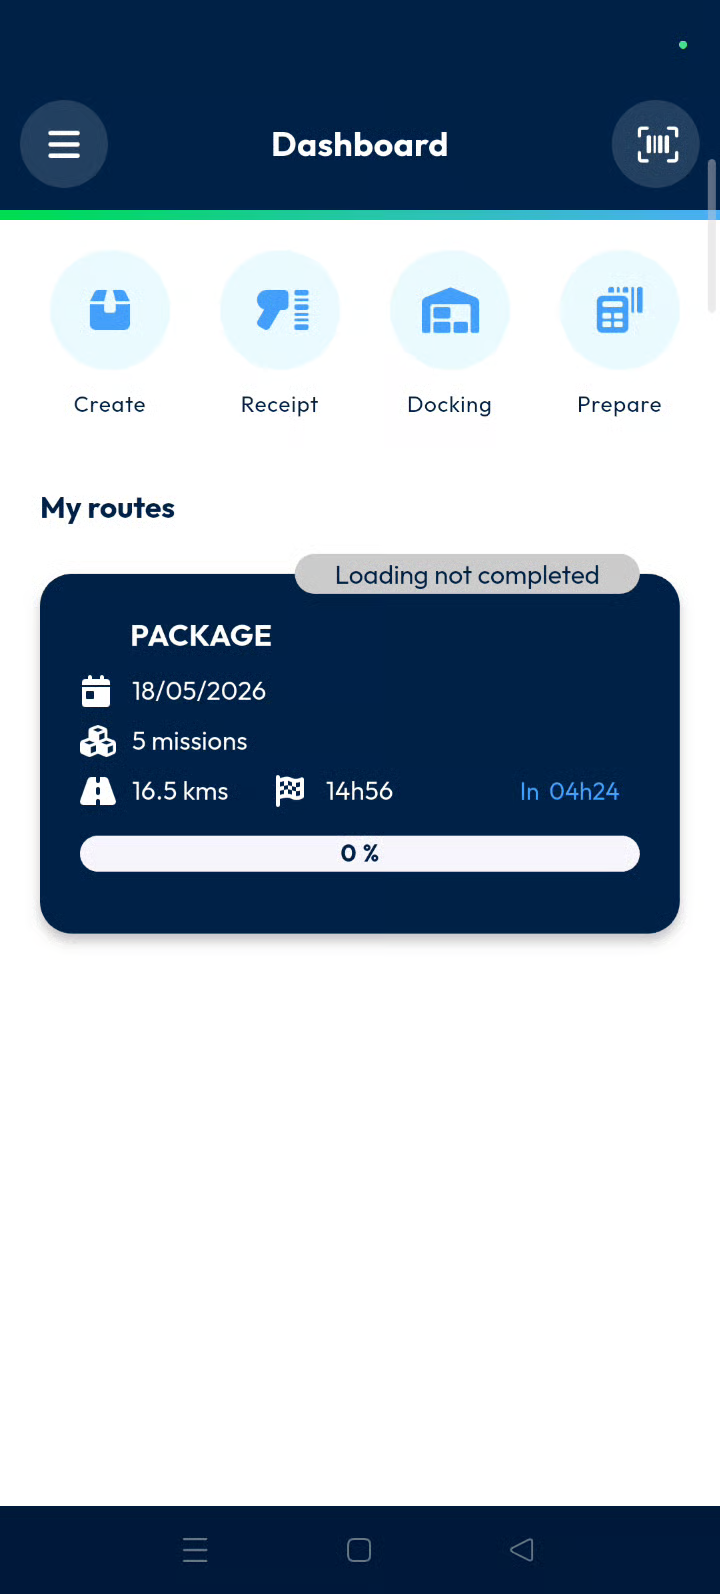
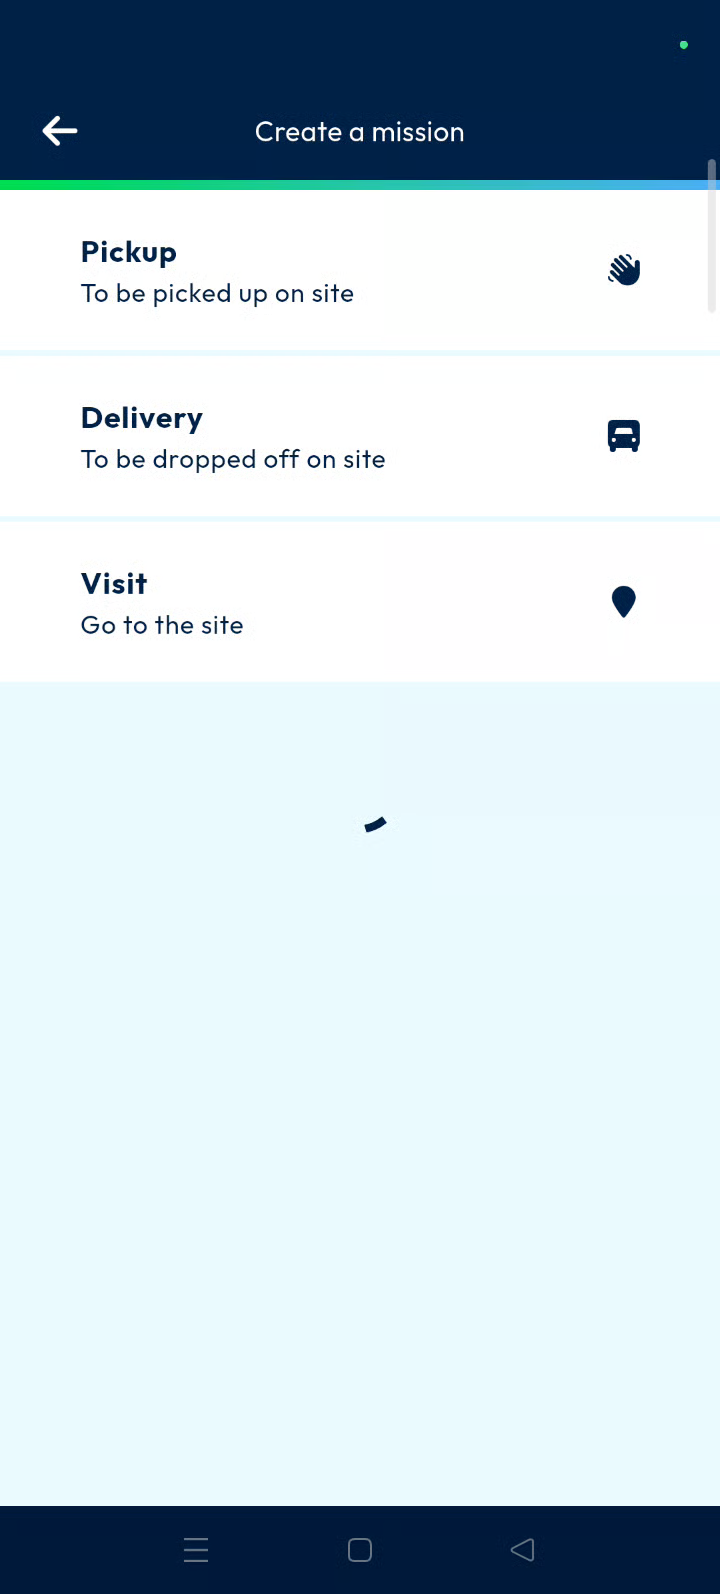
GITBOOK-22: No subject

diff --git a/createamission.md b/createamission.md
@@ -1,0 +1,72 @@
+# Create a Mission
+
+Create pickup or delivery missions directly on mobile devices without using the back office. This feature allows drivers and operators to manage new assignments on the go. Mobile missions synchronize instantly with the back office for immediate processing.
+
+#### Getting Started
+
+* Active Nomadia Delivery mobile application.
+* Mobile device with a working camera for barcode scanning.
+* Proper permissions to access the mobile dashboard.
+* Open the **Nomadia Delivery** mobile app on your device.
+* Navigate to the mobile dashboard screen.
+
+#### Feature Overview
+
+* **Quick Access:** A dedicated section that provides shortcuts to frequently used tasks and features.
+
+<img src=".gitbook/assets/mobile-createamission_timestamp_0_to_29.png" alt="" width="540">
+
+#### How To: Create a Mission
+
+1. Navigate to the **Quick Access** section on the mobile dashboard.
+2. Tap the **Create** button.
+
+<figure><img src=".gitbook/assets/image.png" alt="" width="540"><figcaption></figcaption></figure>
+
+3. The Create Mission screen displays a list of available mission types. Select **Pickup Mission** to create a mission for collecting parcels from a specified location, or select **Delivery Mission** to create a mission for delivering parcels to a customer destination. Once the appropriate mission type is selected, the application opens the corresponding mission creation form where the required details can be entered.
+
+<figure><img src=".gitbook/assets/image (1).png" alt="" width="540"><figcaption></figcaption></figure>
+
+4. When the instruction popup appears, review the information provided on the screen. After confirming that you understand the instructions, tap _I Understand_ to acknowledge the message and continue with the operation.
+
+<figure><img src=".gitbook/assets/image (2).png" alt="" width="540"><figcaption></figcaption></figure>
+
+5. Tap the **QR code scanner** at the bottom scan a barcode or enter it manually.
+6. Set the mission location by selecting **Search for an address around me** or **My current location**.
+7. Tap New address to enter the address
+
+<figure><img src=".gitbook/assets/image (4).png" alt="" width="540"><figcaption></figcaption></figure>
+
+6. Enter the Designation, Valid address
+7. Tap the Save button
+
+<figure><img src=".gitbook/assets/Media (23).jpg" alt="" width="563"><figcaption></figcaption></figure>
+
+6. Choose the **Type of container** and **Type of product**.
+7. Enter the package **Weight**, **Length**, **Width**, **Height**, and **Volume**.
+
+<img src=".gitbook/assets/mobile-createamission_timestamp_2_to_40_to_3_to_40.gif" alt="" width="540">
+
+9. Tap the **Save** button.
+10. Tap the **Tick mark** to finish the information entry.
+11. Tap **Confirm** on the final confirmation popup.
+
+<figure><img src=".gitbook/assets/image (5).png" alt="" width="540"><figcaption></figcaption></figure>
+
+#### Verify Mission Creation
+
+Once the mission is successfully created:
+
+* The mission becomes available in the system.
+* The mission is synchronized with the back office.
+* The newly created mission can be processed like any other operational mission.
+
+<figure><img src=".gitbook/assets/msedge_8qT2r9P8BD.png" alt=""><figcaption></figcaption></figure>
+
+This completes the Create Mission process.
+
+#### Productivity Tips
+
+* 💡 **Manual Entry**: You can manually type a barcode if the camera cannot read a label.
+* 💡 **Address Shortcuts**: Select a **Previous address** to quickly set locations for returning customers.
+* 💡 **Instant Synchronization**: Created missions are immediately available to the back office for management.

diff --git a/main-actions/mobile_dashboard..md b/main-actions/mobile_dashboard..md
@@ -10,7 +10,7 @@ The Mobile Dashboard provides real-time visibility into route information, inclu
 * Log in to the Nomadia Delivery mobile application.
 * View the **Dashboard** screen to see your current tasks.
 
-<figure><img src="../.gitbook/assets/image (1).png" alt="" width="540"><figcaption></figcaption></figure>
+<figure><img src="../.gitbook/assets/image (1) (1).png" alt="" width="540"><figcaption></figcaption></figure>
 
 #### Feature Overview
 
@@ -19,36 +19,36 @@ The Mobile Dashboard provides real-time visibility into route information, inclu
 * **Docking**: Organize activities related to docking during operational workflows.
 * **Prepare**: Set up parcels and machines before beginning delivery tasks.
 
-<figure><img src="../.gitbook/assets/image (2).png" alt="" width="540"><figcaption></figcaption></figure>
+<figure><img src="../.gitbook/assets/image (2) (1).png" alt="" width="540"><figcaption></figcaption></figure>
 
 * **Unload**: Handle unloading activities after completing a route.
 * **Unplanned Deliveries**: Manage delivery tasks not included in the original route.
 * **Unscheduled Collections**: Process collection activities that were not previously scheduled.
 * **Supervision**: Access operational visibility and monitoring tools for delivery activities.
 
-<img src="../.gitbook/assets/mobile-mobile_dashboard_timestamp_2_to_03 (1).png" alt="" width="540">
+<img src="../.gitbook/assets/mobile-mobile_dashboard_timestamp_2_to_03.png" alt="" width="540">
 
 * **My Route**: View all routes currently assigned to your account.
 
-<img src="../.gitbook/assets/mobile-mobile_dashboard_timestamp_2_to_14 (1).png" alt="" width="540">
+<img src="../.gitbook/assets/mobile-mobile_dashboard_timestamp_2_to_14.png" alt="" width="540">
 
 * **Information Scan**: Scan parcels to retrieve details and verify operational information.
 
-<img src="../.gitbook/assets/mobile-mobile_dashboard_timestamp_3_to_39 (1).png" alt="" width="540">
+<img src="../.gitbook/assets/mobile-mobile_dashboard_timestamp_3_to_39.png" alt="" width="540">
 
 * **My Latest Action**: Review the most recent operational tasks and scanned machines.
 
-<figure><img src="../.gitbook/assets/Media (16) (1).jpg" alt="" width="563"><figcaption></figcaption></figure>
+<figure><img src="../.gitbook/assets/Media (16).jpg" alt="" width="563"><figcaption></figcaption></figure>
 
 * **Main Menu**: Open the side menu to access all application modules.
 
-<img src="../.gitbook/assets/mobile-mobile_dashboard_timestamp_4_to_30 (1).png" alt="" width="540">
+<img src="../.gitbook/assets/mobile-mobile_dashboard_timestamp_4_to_30.png" alt="" width="540">
 
 #### How To: Track and Manage Routes
 
 1. Open the **My Route** section from the dashboard.
 
-<img src="../.gitbook/assets/mobile-mobile_dashboard_timestamp_2_to_05_to_2_to_21 (1).gif" alt="" width="540">
+<img src="../.gitbook/assets/mobile-mobile_dashboard_timestamp_2_to_05_to_2_to_21.gif" alt="" width="540">
 
 2. Locate the specific **Route Card** for your current assignment.
 3. Check the **Loading status** to verify if parcels are ready.
@@ -61,12 +61,12 @@ The Mobile Dashboard provides real-time visibility into route information, inclu
 
 1. Tap the **Information scan** icon at the top right corner.
 
-<img src="../.gitbook/assets/mobile-mobile_dashboard_timestamp_3_to_26_to_3_to_39 (1).gif" alt="" width="540">
+<img src="../.gitbook/assets/mobile-mobile_dashboard_timestamp_3_to_26_to_3_to_39.gif" alt="" width="540">
 
 2. Point the camera at the parcel barcode to scan it.
 3. Verify the **Parcel details** that appear on the screen.
 
-<figure><img src="../.gitbook/assets/shared image (2) (1).jpg" alt="" width="563"><figcaption></figcaption></figure>
+<figure><img src="../.gitbook/assets/shared image (2).jpg" alt="" width="563"><figcaption></figcaption></figure>
 
 #### How To: Review Recent Activity
 
@@ -74,7 +74,7 @@ The Mobile Dashboard provides real-time visibility into route information, inclu
 2. Identify the **Scanned machines** and mission information.
 3. Note the **Scanned date and time** for each action.
 
-<figure><img src="../.gitbook/assets/Media (16) (2).jpg" alt="" width="563"><figcaption></figcaption></figure>
+<figure><img src="../.gitbook/assets/Media (16).jpg" alt="" width="563"><figcaption></figcaption></figure>
 
 #### Productivity Tips
 

diff --git a/app-launch/login.md b/app-launch/login.md
@@ -6,7 +6,7 @@ The Delivery Mobile App Login screen allows users to securely access the applica
 
 To ensure the best experience with the Nomadia Delivery application, please check the system requirements for your device.
 
-**System Requirements**
: The Nomadia Delivery application is designed to run on various mobile devices. To ensure the best experience, please check if your device meets the following requirements
+**System Requirements** : The Nomadia Delivery application is designed to run on various mobile devices. To ensure the best experience, please check if your device meets the following requirements
 
 * **Android** device must be running **version 8 to 14**
 * **iOS** (Apple) devices need to be running **version 15.5 or late**r
@@ -53,7 +53,7 @@ Use your assigned credentials to access the Delivery Mobile application. User cr
 2. Enter your **Password** in the Password field.
 3. Tap **Login** to authenticate and access the application.
 
-<figure><img src="../.gitbook/assets/Media (20) (1).jpg" alt="" width="563"><figcaption></figcaption></figure>
+<figure><img src="../.gitbook/assets/Media (20).jpg" alt="" width="563"><figcaption></figcaption></figure>
 
 4. Upon successful authentication, the application opens and displays your assigned routes, missions, and delivery operations.
 
@@ -89,8 +89,3 @@ If an incorrect User ID or Password is entered, the application displays an **"I
 
 * Contact your system administrator if you need to reset or change your password, or if you continue to experience login issues after verifying your credentials.
 * Use the Password Visibility Toggle (eye icon) to temporarily display your password before tapping Login. This helps identify typing errors and reduces failed login attempts.
-
-
-
-
-

diff --git a/main-actions/mobile_loading.md b/main-actions/mobile_loading.md
@@ -23,8 +23,6 @@ The Nomadia Delivery mobile loading feature allows delivery users to manage parc
 
 <img src="../.gitbook/assets/mobile-mobile_loading_timestamp_0_to_33.png" alt="" width="540">
 
-
-
 * **Ellipse Menu**: Opens additional operation options in the top right corner.
 
 <img src="../.gitbook/assets/mobile-mobile_loading_timestamp_1_to_36.png" alt="" width="540">
@@ -44,7 +42,7 @@ The Nomadia Delivery mobile loading feature allows delivery users to manage parc
 1. Identify the parcel entry in the list if a physical scan is unavailable.
 2. Long press on the parcel entry to update the status manually.
 
-<img src="../.gitbook/assets/mobile-mobile_loading_timestamp_1_to_19_to_1_to_24.gif" alt="" width="540">
+<img src="../.gitbook/assets/mobile-mobile_loading_timestamp_1_to_06_to_1_to_11.gif" alt="" width="540">
 
 3. Use the toggle buttons at the bottom of the screen to manually indicate the parcel status. Tap _Load_ (green button) when loading a parcel, or tap _Not load_ (red button) when the parcel is not loaded. This action allows parcels to be processed manually without scanning.
 

diff --git a/SUMMARY.md b/SUMMARY.md
@@ -5,4 +5,4 @@
 * [Main Actions](main-actions/README.md)
   * [Dashboard](main-actions/mobile_dashboard..md)
   * [Loading](main-actions/mobile_loading.md)
-  * [createamission](images/createamission.md)
+* [Create a Mission](createamission.md)